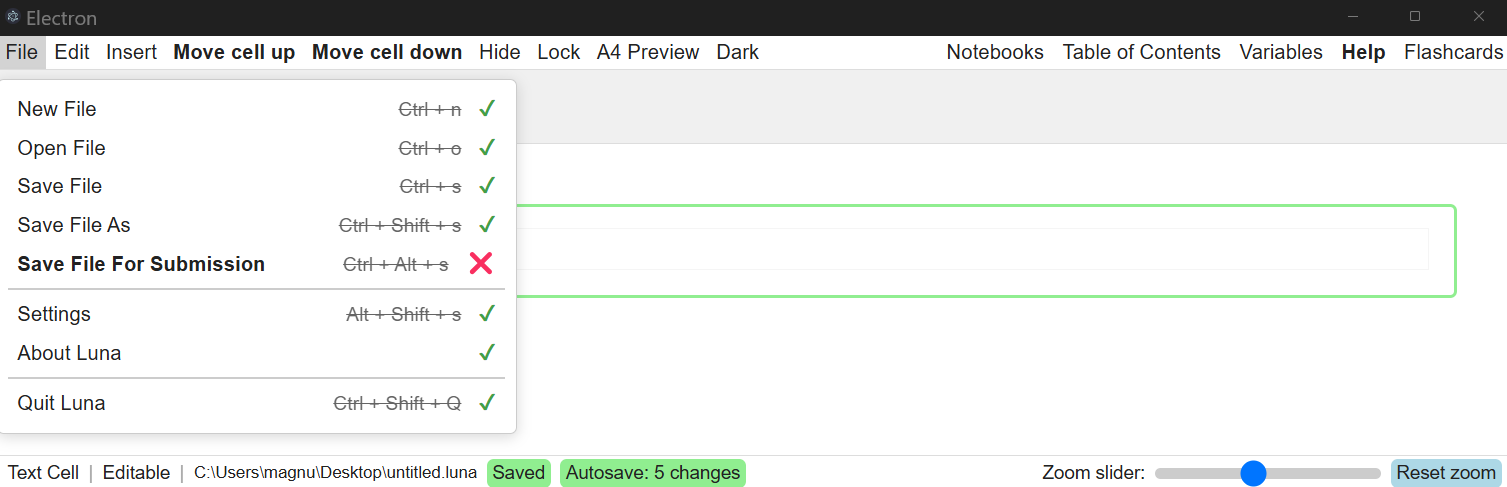
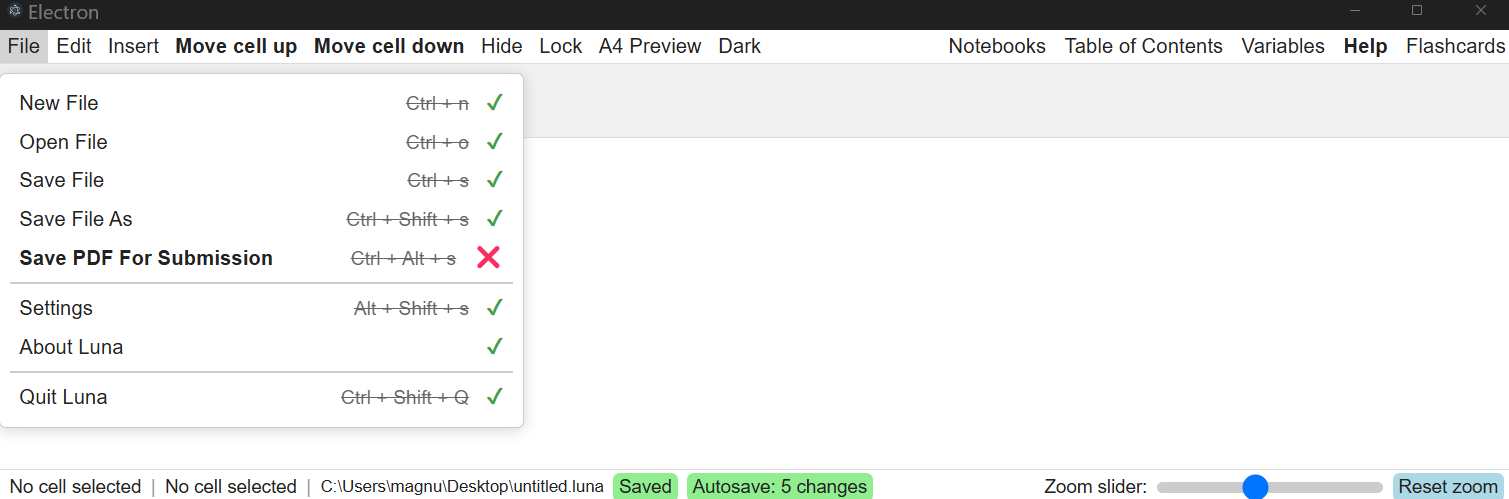
feat: rename save file submission function and update menu item to save PDF

diff --git a/src/renderer/src/components/navigation_bars/MenuBar.vue b/src/renderer/src/components/navigation_bars/MenuBar.vue
@@ -23,8 +23,8 @@
         Save File As <span class="shortcut-not-implemented">Ctrl + Shift + s</span>
         <ImplementedMark :implemented="true" />
       </div>
-      <div class="dropdown-menu-item" @click="handleSaveFileForSubmission">
-        <strong>Save File For Submission</strong>
+      <div class="dropdown-menu-item" @click="handleSavePDFForSubmission">
+        <strong>Save PDF For Submission</strong>
         <span class="shortcut-not-implemented">Ctrl + Alt + s</span>
         <ImplementedMark :implemented="false" />
       </div>
@@ -334,8 +334,8 @@ const handleSaveFileAs = async (): Promise<void> => {
   }
 }
 
-const handleSaveFileForSubmission = (): void => {
-  console.log('Save File For Submission clicked')
+const handleSavePDFForSubmission = (): void => {
+  console.log('Save PDF For Submission clicked')
 }
 
 const handleSettings = (): void => {
